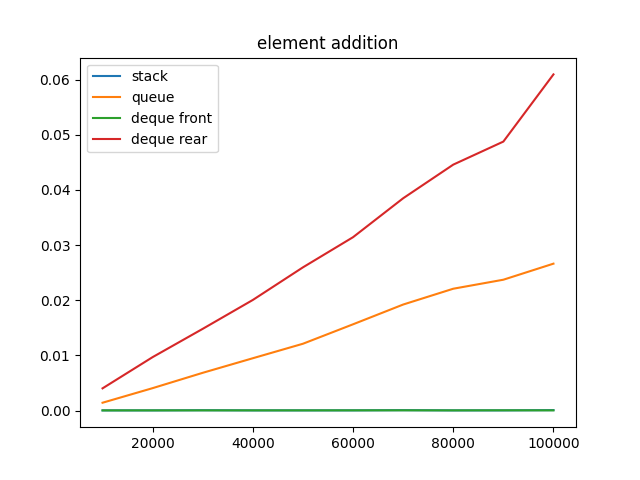
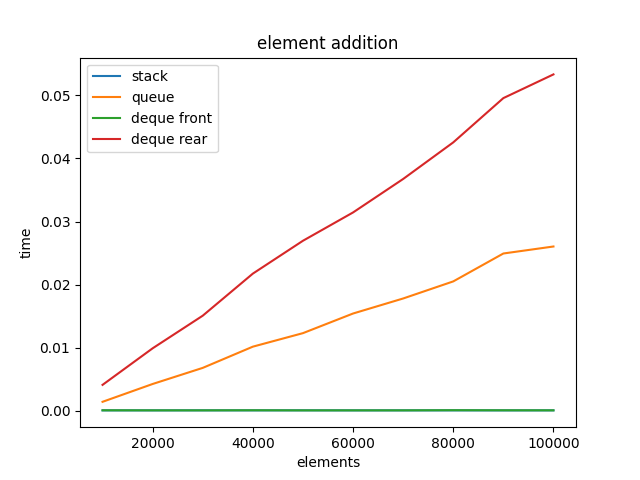
lab3 fixes

diff --git a/lab3/unordered.py b/lab3/unordered.py
@@ -33,6 +33,12 @@ class UnorderedList:
         return res
 
     def __getitem__(self, slice):
+        if isinstance(slice, int):
+            current = self.head
+            for _ in range(slice):
+                current = current.getNext()
+            return current.getData()
+        
         s = slice.start if slice.start is not None else 0
         l = (slice.stop - s) if slice.stop is not None else (self.size() - s)
         # print(f"s: {s}, l: {l}")
@@ -168,20 +174,25 @@ if __name__ == "__main__":
     mylist.add(54)
     mylist.append(123)
     mylist.append(256)
-
-    mylist.print()
-    print(mylist.pop())
-    print(mylist.pop())
-    mylist.print()
-    mylist.insert(2, 131313)
-    mylist.print()
-    mylist.insert(4, 222)
-    mylist.print()
     print(mylist)
+    print(mylist[2])
+    print(mylist[2:5])
 
-    print(mylist[:3])
-    print(mylist[1:5])
-    print(mylist[2:2])
+
+
+    # print(mylist)
+    # print(mylist.pop())
+    # print(mylist.pop())
+    # print(mylist)
+    # mylist.insert(2, 131313)
+    # print(mylist)
+    # mylist.insert(4, 222)
+    # print(mylist)
+    # print(mylist)
+
+    # print(mylist[:3])
+    # print(mylist[1:5])
+    # print(mylist[2:2])
 
     # print(mylist.index(26))
     # print(mylist.index(77))

diff --git a/lab3/4.py b/lab3/4.py
@@ -86,6 +86,8 @@ if __name__ == "__main__":
     plt.plot(plt_x, plt_q, label='queue')
     plt.plot(plt_x, plt_df, label='deque front')
     plt.plot(plt_x, plt_dr, label='deque rear')
+    plt.xlabel('elements')
+    plt.ylabel('time')
     plt.legend()
     plt.title('element addition')
     plt.savefig('structures_addition.png')
